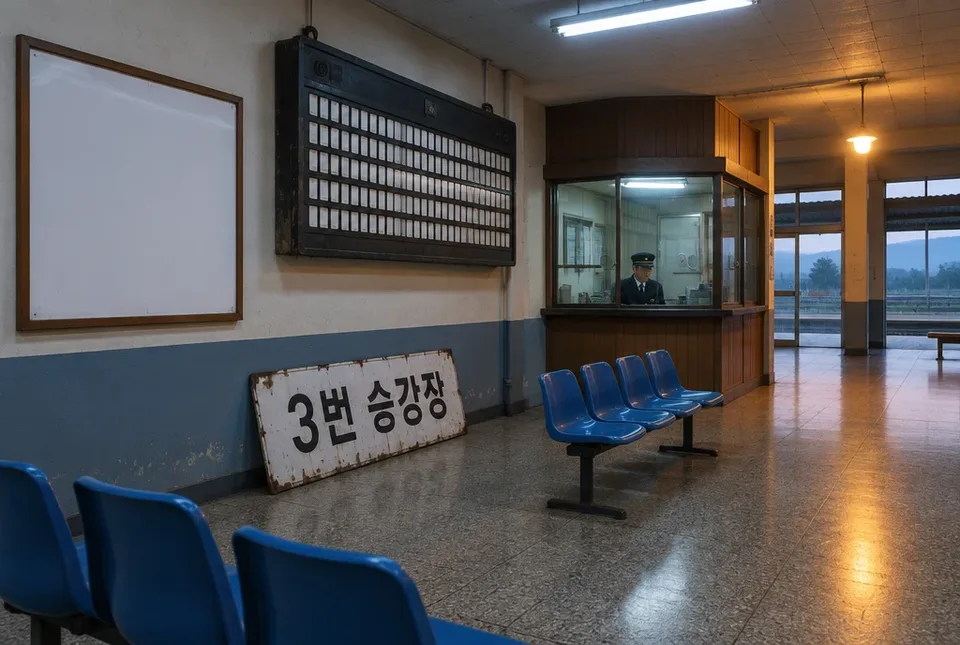
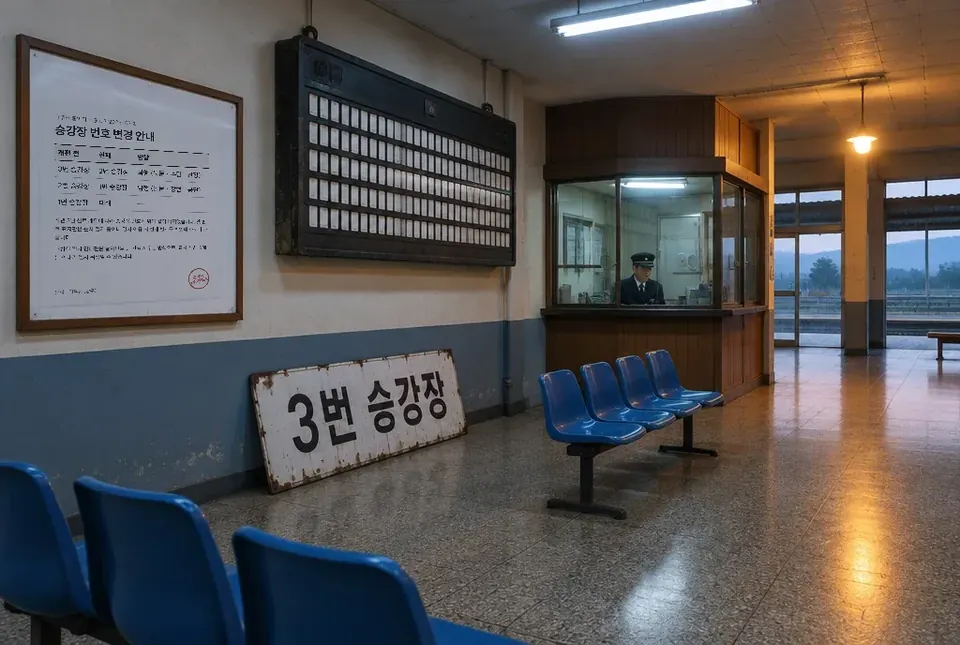
v91: 전체 점검 — 서술문 다듬기, 마지막 편지 손글씨, 안내문 사진 합성, 공고·스티커 소품, 표식 위치
Claude-Session: https://claude.ai/code/session_01EmFjZY1gpVcrfc1exiuVhy

Changed region(s): [[0.0625, 0.186, 0.2188, 0.4031], [0.1875, 0.4031, 0.2188, 0.4651]]

diff --git a/mystery-site/web/v2/episodes/station.js b/mystery-site/web/v2/episodes/station.js
@@ -157,19 +157,18 @@ export default {
   cover: 'assets/v2/station/cover.webp',
   coverAlt: '새벽 대합실 벽에 기대 둔 낡은 3번 승강장 표지',
   music: 'assets/music/station-v33.mp3',
-  tagline: '새벽 1시 14분, 사진 한 장.\n중앙역에 3번 승강장은 없다.',
-  blurb: '회사를 그만두고 방을 뺀 친구가 보낸 마지막 사진은\n지금은 없는 승강장이었습니다. 친구가 남긴 길을 따라가세요.',
+  tagline: '새벽 1시 14분, 사진 한 장.\n중앙역에 3번 승강장은 없다',
+  blurb: '회사를 그만두고 방을 뺀 친구가 보낸 마지막 사진은\n지금은 없는 승강장이었습니다. 친구가 남긴 길을 따라가세요',
   storageKey: 'mihaeje-v2-station',
 
   opening: {
     eyebrow: '새벽 1시 14분',
     paragraphs: [
-      '민서가 사진 한 장을 보냈다.',
-      '낡은 법랑 표지판. 「3번 승강장」. 밑에 매직으로 쓴 한 줄.',
+      '민서가 사진 한 장을 보냈다. 낡은 법랑 표지판에 「3번 승강장」이라고 적혀 있고, 그 밑에 매직으로 쓴 한 줄이 있었다',
       '「여기서 시작. 찾아와」',
-      '전화는 바로 꺼졌다. 다시 걸어도 꺼져 있었다.',
-      '민서는 두 달 전 회사를 그만뒀다. 방을 뺐다는 말은 지난주에 들었다. 어디로 가는지는 묻지 못했다. 묻기 전에 먼저 말해 줄 줄 알았다.',
-      '중앙역에 3번 승강장은 없다. 1번과 2번뿐이다. 나는 아침 첫차를 탔다.',
+      '바로 전화를 걸었지만 꺼져 있었고, 몇 번을 다시 걸어도 마찬가지였다',
+      '민서는 두 달 전에 회사를 그만뒀고 방을 뺐다는 말은 지난주에야 들었다. 어디로 가는지는 묻지 못했는데, 묻기 전에 먼저 말해 줄 거라고 생각했기 때문이다',
+      '중앙역에 3번 승강장은 없다. 1번과 2번뿐이라는 걸 알면서도 나는 아침 첫차를 탔다',
     ],
     cta: '중앙역 대합실로',
   },
@@ -187,10 +186,7 @@ export default {
       id: 'hall',
       name: '중앙역 대합실',
       image: 'assets/v2/station/hall.webp',
-      overlays: [
-        { x: 2.6, y: 8, w: 22.5, h: 38, cls: 'ov-notice', style: 'transform:perspective(900px) rotateY(5deg);transform-origin:left center', html: '<b>승강장 번호 변경 안내</b><table><tr><th>개편 전</th><th>현재</th></tr><tr><td>3번</td><td>2번 (북행)</td></tr><tr><td>2번</td><td>1번 (남행)</td></tr><tr><td>1번</td><td>폐쇄</td></tr></table><small>미루선 중앙역 · 역무관리소</small>' },
-      ],
-      arrive: '여섯 시 반의 대합실. 전광판은 아직 어제 날짜를 넘기지 못한 것처럼 느리게 깜빡인다. 안내판 아래, 벽에 기대 둔 흰 표지판이 보인다. 사진 속 그것이다. 숨이 짧아졌다. 커피를 사려다 말았다.',
+      arrive: '여섯 시 반의 대합실은 전광판이 아직 어제 날짜를 넘기지 못한 것처럼 느리게 깜빡이고 있었다. 안내판 아래 벽에 기대 둔 흰 표지판이 보였고, 그게 사진 속 그것이라는 걸 알아보는 순간 숨이 짧아져서 커피를 사려다 말았다',
       hotspots: [
         { id: 'sign', x: 36, y: 63, label: '벽에 기댄 옛 표지판', kind: 'doc', doc: 'sign' },
         { id: 'clerk', x: 66, y: 40, label: '매표창구의 역무원', kind: 'doc', doc: 'clerk' },
@@ -204,7 +200,7 @@ export default {
       name: '2번 승강장 · 둘째 기둥',
       image: 'assets/v2/station/platform.webp',
       unlockedBy: 'grille',
-      arrive: '안개가 선로 위에 낮게 깔려 있다. 둘째 기둥. 눈높이에 네컷사진 한 장이 테이프로 붙어 있다. 사진 속 두 사람 중 하나는 나다. 이걸 여기 붙이고 간 사람의 마음을 모르겠어서, 조금 무서웠다.',
+      arrive: '안개가 선로 위에 낮게 깔려 있었다. 둘째 기둥 눈높이에 네컷사진 한 장이 테이프로 붙어 있었는데, 사진 속 두 사람 중 하나는 나였다. 이걸 여기 붙이고 간 사람의 마음을 알 수가 없어서 조금 무서웠다',
       hotspots: [
         { id: 'strip', x: 27, y: 34, label: '기둥에 붙은 네컷사진', kind: 'doc', doc: 'strip' },
         { id: 'table', x: 29, y: 57, label: '기둥의 출발 시각표', kind: 'doc', doc: 'timetable' },
@@ -217,10 +213,10 @@ export default {
       name: '수림역 · 보관함',
       image: 'assets/v2/station/surim.webp',
       unlockedBy: 'mirror',
-      arrive: '열차는 북문을 서지 않고 지나쳤다. 수림역은 역무원이 없다. 문 옆에 보관함 열두 칸. 열한 칸은 닫혀 있고, 한 칸에 노란 별 스티커가 붙어 있다. 민서는 뭐든 별 스티커를 붙였다. 노란 별을 보는데 왜 목이 메는지 모르겠다.',
+      arrive: '열차는 북문을 서지 않고 지나쳤고, 수림역에는 역무원이 없었다. 문 옆에 보관함이 열두 칸 있었는데 그중 한 칸에만 노란 별 스티커가 붙어 있었다. 민서는 뭐든 별 스티커를 붙이는 애였고, 그 노란 별을 보는데 왜 목이 메는지 알 수 없었다',
       hotspots: [
         { id: 'postcard', x: 60, y: 30, label: '게시판의 그림엽서', kind: 'doc', doc: 'postcard' },
-        { id: 'lockerrule', x: 12, y: 24, label: '보관함 이용 안내', kind: 'doc', doc: 'lockerrule' },
+        { id: 'lockerrule', x: 41, y: 20, label: '보관함 이용 안내', kind: 'doc', doc: 'lockerrule' },
         { id: 'locker', x: 52, y: 47, label: '별 스티커가 붙은 보관함', kind: 'device', device: 'locker' },
       ],
     },
@@ -229,7 +225,7 @@ export default {
       name: '수림 마을길',
       image: 'assets/v2/station/village.webp',
       unlockedBy: 'locker',
-      arrive: '보관함 안에는 파란 리본을 맨 열쇠, 접은 종이, 편지, 쪽지 세 장. 그리고 민서의 휴대폰. 꺼져 있다. 그래서 안 받은 거였다. 화가 나야 하는데 나지 않았다. 역 밖은 매미 소리로 꽉 차 있다. 길은 왼쪽과 오른쪽으로 갈라진다.',
+      arrive: '보관함 안에는 파란 리본을 맨 열쇠와 접은 종이, 편지, 쪽지 세 장, 그리고 꺼진 채 들어 있는 민서의 휴대폰이 있었다. 그래서 안 받은 거였다. 화가 나야 하는데 나지 않았다. 역 밖은 매미 소리로 꽉 차 있었고 길은 왼쪽과 오른쪽으로 갈라져 있었다',
       hotspots: [
         { id: 'letter', x: 24, y: 70, label: '민서의 편지', kind: 'doc', doc: 'letter' },
         { id: 'handmap', x: 46, y: 74, label: '접힌 손지도', kind: 'doc', doc: 'handmap' },
@@ -243,32 +239,32 @@ export default {
     message: {
       title: '민서의 마지막 메시지',
       kind: '휴대폰 · 01:14',
-      html: `<div class="phone-msg"><div class="bubble photo"><img class="msg-photo" src="assets/v2/station/cover-960.webp" alt="낡은 3번 승강장 표지판 사진" decoding="async"><p class="scrawl">여기서 시작. 찾아와.</p></div><div class="bubble-time">오전 1:14</div><div class="bubble mine">민서야 어디야</div><div class="bubble mine">전화 좀 받아</div><p class="sys">상대방이 전화를 받을 수 없습니다 · 전원이 꺼져 있음</p></div>`,
+      html: `<div class="phone-msg"><div class="bubble photo"><img class="msg-photo" src="assets/v2/station/cover-960.webp" alt="낡은 3번 승강장 표지판 사진" decoding="async"><p class="scrawl">여기서 시작. 찾아와</p></div><div class="bubble-time">오전 1:14</div><div class="bubble mine">민서야 어디야</div><div class="bubble mine">전화 좀 받아</div><p class="sys">상대방이 전화를 받을 수 없습니다 · 전원이 꺼져 있음</p></div>`,
     },
     sign: {
       title: '벽에 기댄 옛 표지판',
       kind: '법랑 · 모서리가 깨짐',
-      html: `<p>흰 바탕에 검은 글씨. <b>3번 승강장</b>. 개편 전에 떼어 낸 것을 역무원이 버리지 못하고 벽에 세워 두었다고 한다.</p><p>뒷면 아래쪽에 투명 테이프로 종이 한 장이 붙어 있다. 구간권이다. 네모난 구멍이 여섯 개 뚫려 있고, 위쪽 여백에 민서 글씨.</p><figure class="prop ticket"><img src="assets/v2/station/props/ticket.webp" alt="구멍 뚫린 구간권" decoding="async"><div class="ticket-holes"><i style="--r:0;--c:0"></i><i style="--r:0;--c:3"></i><i style="--r:1;--c:1"></i><i style="--r:1;--c:3"></i><i style="--r:2;--c:2"></i><i style="--r:3;--c:1"></i></div><span class="ticket-arrow">▲</span><span class="ticket-print">미루선 구간권<br>800원</span><span class="ticket-hand">시간표에 대 봐</span></figure><p class="aside">구간권은 열차 안내판(대합실 위쪽)의 글자판과 같은 크기의 칸으로 나뉘어 있다.</p>`,
+      html: `<p>흰 바탕에 검은 글씨로 <b>3번 승강장</b>이라고 적혀 있다. 개편 때 떼어 낸 것을 역무원이 버리지 못하고 벽에 세워 두었다고 한다</p><p>뒷면 아래쪽에는 투명 테이프로 구간권 한 장이 붙어 있는데, 네모난 구멍이 여섯 개 뚫려 있고 위쪽 여백에 민서 글씨가 있다</p><figure class="prop ticket"><img src="assets/v2/station/props/ticket.webp" alt="구멍 뚫린 구간권" decoding="async"><div class="ticket-holes"><i style="--r:0;--c:0"></i><i style="--r:0;--c:3"></i><i style="--r:1;--c:1"></i><i style="--r:1;--c:3"></i><i style="--r:2;--c:2"></i><i style="--r:3;--c:1"></i></div><span class="ticket-arrow">▲</span><span class="ticket-print">미루선 구간권<br>800원</span><span class="ticket-hand">시간표에 대 봐</span></figure><p class="aside">구간권의 칸은 대합실 위쪽 열차 안내판의 글자판과 크기가 같다</p>`,
     },
     clerk: {
       title: '매표창구의 역무원',
       kind: '박종길 · 야간 근무',
-      html: `<p>창구 안의 남자는 커피를 반쯤 남긴 채 신문을 접었다.</p><blockquote>“새벽에 여자분 하나가 저 표지판 앞에 한참 서 있다가, 뭘 붙이고 갔어요. 떼려다 뒀습니다. ‘사람이 올 거예요’ 하길래”</blockquote><blockquote>“3번? 지금은 없어요. 작년에 개편하면서 번호를 바꿨어요. 저 표지판이 서 있던 자리는 지금 2번이에요. 북쪽 가는 쪽”</blockquote><blockquote>“그 여자분, 첫차 타고 올라갔어요. 어느 열차였는지는… 승강장 가서 물어보시든가. 기둥에도 뭘 붙였을걸요. 테이프 소리가 들렸으니까”</blockquote>`,
+      html: `<p>창구 안의 남자는 커피를 반쯤 남긴 채 신문을 접었다</p><blockquote>“새벽에 여자분 하나가 저 표지판 앞에 한참 서 있다가, 뭘 붙이고 갔어요. 떼려다 뒀습니다. ‘사람이 올 거예요’ 하길래”</blockquote><blockquote>“3번? 지금은 없어요. 작년에 개편하면서 번호를 바꿨어요. 저 표지판이 서 있던 자리는 지금 2번이에요. 북쪽 가는 쪽”</blockquote><blockquote>“그 여자분, 첫차 타고 올라갔어요. 어느 열차였는지는… 승강장 가서 물어보시든가. 기둥에도 뭘 붙였을걸요. 테이프 소리가 들렸으니까”</blockquote>`,
     },
     notice: {
       title: '승강장 개편 안내',
       kind: '게시물 · 작년 3월',
-      html: `<p class="eyebrow">미루선 중앙역 승강장 번호 변경</p><table><thead><tr><th>개편 전</th><th>현재</th><th>방향</th></tr></thead><tbody><tr><td>3번</td><td>2번</td><td>북행 (북문 · 수림 · 산장)</td></tr><tr><td>2번</td><td>1번</td><td>남행 (남문 · 강변 · 공단)</td></tr><tr><td>1번</td><td>폐쇄</td><td>—</td></tr></tbody></table><p>대합실 위쪽 열차 안내판은 글자판을 한 칸씩 끼우는 옛날식입니다. 글자판 교체 중에는 안내가 뒤섞일 수 있습니다.</p>`,
+      html: `<figure class="prop noticephoto"><img src="assets/v2/station/props/notice.webp" alt="승강장 번호 변경 안내: 옛 3번은 현재 2번(북행), 옛 2번은 현재 1번(남행), 옛 1번은 폐쇄" decoding="async"></figure><p class="aside">옛 3번은 지금 2번(북행), 옛 2번은 지금 1번(남행), 옛 1번은 폐쇄. 대합실 안내판은 글자판을 한 칸씩 끼우는 옛날식이라 교체 중에는 안내가 뒤섞일 수 있다고 적혀 있다</p>`,
     },
     brief: {
       title: '민서와 나',
       kind: '내 기억',
-      html: `<p>스무 살. 매일 아침 09:40 통학열차, 둘째 칸. 어느 날 내 자리에 모르는 애가 앉아 있었다. 비켜 달라고 했더니 “자리 이름 적혀 있어?” 했다. 그게 민서였다.</p><p>민서는 뭐든 별 스티커를 붙였다. 노트, 휴대폰, 내 가방에도. 중학교 때부터 쪽지를 거울 글씨로 쓰는 버릇이 있었다. 선생님이 못 읽게 하려고 시작한 거라고 했다.</p><p>외할머니 얘기를 자주 했다. 수림 어디 산골에 혼자 사신다고. 여름마다 갔는데 작년부터는 못 갔다고.</p><p>회사를 그만둔 뒤로 연락이 뜸해졌다. 괜찮냐고 묻지 않았다. 묻지 않는 게 배려라고 생각했다.</p>`,
+      html: `<p>스무 살 때 매일 아침 09:40 통학열차 둘째 칸을 탔는데, 어느 날 내 자리에 모르는 애가 앉아 있었다. 비켜 달라고 했더니 “자리에 이름 적혀 있어?” 하고 되물었고, 그게 민서였다</p><p>민서는 노트든 휴대폰이든 내 가방이든 뭐든 별 스티커를 붙였고, 중학교 때부터 쪽지를 거울 글씨로 쓰는 버릇이 있었다. 선생님이 못 읽게 하려고 시작한 거라고 했다</p><p>수림 어디 산골에 혼자 사신다는 외할머니 얘기를 자주 했다. 여름마다 갔는데 작년부터는 못 갔다고 했다</p><p>회사를 그만둔 뒤로 연락이 뜸해졌지만 괜찮냐고 묻지 않았다. 묻지 않는 게 배려라고 생각했다</p>`,
     },
     strip: {
       title: '기둥에 붙은 네컷사진',
       kind: '앞면 · 뒷면',
-      html: `<figure class="prop stripphoto"><img src="assets/v2/station/props/strip.webp" alt="기둥에 붙은 네컷사진" decoding="async"></figure><p class="aside">4년 전 역 앞 사진 부스. 둘 다 눈을 감은 컷이 하나 있다.</p><p>뒷면에 민서 글씨가 있다. 그런데 글자가 전부 뒤집혀 있다. 왼손으로 쓴 것처럼 삐뚤고, 자음이 거꾸로다.</p><figure class="prop stripback"><p class="mirror-text">우리가 처음 만난 그 시간 열차. 종점까지 와.</p></figure><p class="aside">승강장 끝에 볼록거울이 있다.</p>`,
+      html: `<figure class="prop stripphoto"><img src="assets/v2/station/props/strip.webp" alt="기둥에 붙은 네컷사진" decoding="async"></figure><p class="aside">4년 전 역 앞 사진 부스에서 찍은 것으로, 둘 다 눈을 감은 컷이 하나 있다</p><p>뒷면에 민서 글씨가 있는데 글자가 전부 뒤집혀 있다. 왼손으로 쓴 것처럼 삐뚤고 자음이 거꾸로다</p><figure class="prop stripback"><p class="mirror-text">우리가 처음 만난 그 시간 열차. 종점까지 와.</p></figure><p class="aside">승강장 끝에 볼록거울이 있다</p>`,
     },
     timetable: {
       title: '기둥의 출발 시각표',
@@ -278,28 +274,28 @@ export default {
     postcard: {
       title: '게시판의 그림엽서',
       kind: '민서가 찍은 사진 엽서',
-      html: `${postcardImg}<p>뒷면.</p><blockquote class="hand">보관함 번호는 그림 안에 있어.<br>새, 창, 등, 의자 순서로.<br>벤치에서 조는 사람은 세지 마. 그거 너야.</blockquote>`,
+      html: `${postcardImg}<p class="aside">뒷면에 적힌 글</p><blockquote class="hand">보관함 번호는 그림 안에 있어<br>새, 창, 등, 의자 순서로<br>벤치에서 조는 사람은 세지 마. 그거 너야</blockquote>`,
     },
     lockerrule: {
       title: '보관함 이용 안내',
       kind: '수림역 · 무인',
-      html: `<p>숫자 네 자리를 맞추고 손잡이를 당기세요. 세 번 틀리면 30초 동안 잠깁니다. 물건은 7일까지 보관됩니다.</p><p class="aside">별 스티커가 붙은 칸은 7번. 다이얼이 전부 0에 맞춰져 있다.</p>`,
+      html: `<div class="sticker"><b>보관함 이용 안내</b><ol><li>숫자 네 자리를 맞추고 손잡이를 당기세요</li><li>세 번 틀리면 30초 동안 잠깁니다</li><li>물건은 7일까지 보관됩니다</li></ol><small>수림역 · 무인역 관리 041-000-0000</small></div><p class="aside">보관함 옆면에 붙은 스티커. 별 스티커가 붙은 칸은 7번이고 다이얼은 전부 0에 맞춰져 있다</p>`,
     },
     letter: {
       title: '민서의 편지',
       kind: '보관함 안 · 봉투 없이',
-      html: `<figure class="prop letterphoto"><img src="assets/v2/station/props/letter.webp" alt="보관함에서 나온 편지" decoding="async"><div class="letter-hand"><p>왔네.</p><p>여기까지 왔으면 반은 온 거야. 열쇠는 우리 집 대문 열쇠. 지도는 내가 그렸는데 좀 못 그렸어.</p><p>역을 등지고 서. 그 상태에서 <b>왼쪽</b>으로 가.<br><b>두 번째 골목</b>에서 <b>오른쪽</b>으로 꺾어.<br>다리를 건너. 건너자마자 <b>왼쪽</b>.<br>그 길에 집이 <b>네 채</b>. 몇 번째인지는 안 적을래. 쪽지 세 장 중 <b>하나만 거짓말</b>이야. 우리 중학교 때 하던 거.</p><p>대문 색은 지도에 안 그렸어. 그려 놓으면 네가 지도만 보고 올 거잖아.</p><p class="sign">— 민서</p></div></figure>`,
+      html: `<figure class="prop letterphoto"><img src="assets/v2/station/props/letter.webp" alt="보관함에서 나온 편지" decoding="async"><div class="letter-hand"><p>왔네</p><p>여기까지 왔으면 반은 온 거야. 열쇠는 우리 집 대문 열쇠고, 지도는 내가 그렸는데 좀 못 그렸어</p><p>역을 등지고 서. 그 상태에서 <b>왼쪽</b>으로 가.<br><b>두 번째 골목</b>에서 <b>오른쪽</b>으로 꺾어.<br>다리를 건너. 건너자마자 <b>왼쪽</b>.<br>그 길에 집이 <b>네 채</b>. 몇 번째인지는 안 적을래. 쪽지 세 장 중 <b>하나만 거짓말</b>이야. 우리 중학교 때 하던 거</p><p>대문 색은 지도에 안 그렸어. 그려 놓으면 네가 지도만 보고 올 거잖아</p><p class="sign">— 민서</p></div></figure>`,
     },
     handmap: {
       title: '접힌 손지도',
       kind: '종이봉투 조각에 볼펜',
-      html: `<figure class="prop kraft"><img src="assets/v2/station/props/kraft.webp" alt="종이봉투를 찢어 그린 손지도" decoding="async"><div class="kraft-map">${svgMap()}</div></figure><p class="aside">위가 북쪽. 역은 지도 아래쪽에 있다. 집은 전부 비슷하게 그려져 있고 대문 색은 없다.</p>`,
+      html: `<figure class="prop kraft"><img src="assets/v2/station/props/kraft.webp" alt="종이봉투를 찢어 그린 손지도" decoding="async"><div class="kraft-map">${svgMap()}</div></figure><p class="aside">위가 북쪽이고 역은 지도 아래쪽에 있다. 집은 전부 비슷하게 그려져 있고 대문 색은 없다</p>`,
     },
     final: {
       title: '민서의 편지 · 마지막 장',
       kind: '편지의 접힌 뒷장 · 마당에서 읽음',
       locked: true,
-      html: `<div class="letter-paper"><p>할머니가 겨울에 넘어지셨어. 아무한테도 말 안 하고 혼자 석 달을 누워 계셨대. 그 얘기를 듣고 그날 사표 냈어.</p><p>너한테는 말을 못 했어. 말하면 네가 말릴 것 같았고, 안 말리면 그게 더 서운할 것 같았어. 그래서 네가 직접 오게 만들었어. 넌 길 찾는 거 잘하잖아. 그리고 여기까지 온 사람은 그냥 못 돌아가.</p><p>휴대폰은 보관함에 넣어 뒀어. 들고 있으면 네가 걸 때마다 받을 것 같아서. 받으면 말할 것 같고, 말하면 넌 안 올 것 같아서.</p><p>수박 잘라 놨어.</p></div>`,
+      html: `<figure class="prop letterphoto back"><img src="assets/v2/station/props/letter.webp" alt="편지의 접힌 뒷장" decoding="async"><div class="letter-hand"><p>할머니가 겨울에 넘어지셨어. 아무한테도 말 안 하고 혼자 석 달을 누워 계셨대. 그 얘기를 듣고 그날 사표 냈어</p><p>너한테는 말을 못 했어. 말하면 네가 말릴 것 같았고, 안 말리면 그게 더 서운할 것 같았어. 그래서 네가 직접 오게 만들었어. 넌 길 찾는 거 잘하잖아. 그리고 여기까지 온 사람은 그냥 못 돌아가</p><p>휴대폰은 보관함에 넣어 뒀어. 들고 있으면 네가 걸 때마다 받을 것 같아서. 받으면 말할 것 같고, 말하면 넌 안 올 것 같아서</p><p>수박 잘라 놨어</p></div></figure>`,
     },
   },
 
@@ -307,13 +303,13 @@ export default {
     grille: {
       title: '열차 안내판',
       scene: 'hall',
-      intro: '글자판이 7×7로 끼워져 있다. 구간권을 겹쳐 올릴 수 있다. 구멍으로 보이는 글자가 민서가 남긴 말이다.',
+      intro: '글자판이 7×7로 끼워져 있다. 구간권을 겹쳐 올릴 수 있다. 구멍으로 보이는 글자가 민서가 남긴 말이다',
       docs: ['sign', 'notice'],
       hintCode: 'T-S01',
       hints: [
-        '구간권을 안내판 위에서 움직이고, 돌려도 보세요. 구멍으로 읽히는 글자가 말이 되는 자리는 서른여섯 가지 중 하나뿐입니다.',
-        '화살표가 위를 보는 상태로, 오른쪽 두 칸, 아래 한 칸. 숫자 하나와 글자 다섯이 읽힙니다.',
-        '읽히는 글자는 「2번 둘째 기둥」입니다. 2번 승강장의 둘째 기둥을 고르세요.',
+        '구간권을 안내판 위에서 움직이고, 돌려도 보세요. 구멍으로 읽히는 글자가 말이 되는 자리는 서른여섯 가지 중 하나뿐입니다',
+        '화살표가 위를 보는 상태로, 오른쪽 두 칸, 아래 한 칸. 숫자 하나와 글자 다섯이 읽힙니다',
+        '읽히는 글자는 「2번 둘째 기둥」입니다. 2번 승강장의 둘째 기둥을 고르세요',
       ],
       initial: () => ({ dx: 0, dy: 0, turn: 0, platform: null, pillar: null }),
       render(ctx) {
@@ -374,10 +370,10 @@ export default {
       },
       reveal: {
         title: '2번 승강장, 둘째 기둥',
-        text: '역무원이 개찰구를 열어 준다. “북쪽 가는 쪽이요. 기둥은 선로 쪽에서 세요”',
+        text: '역무원이 개찰구를 열어 주며 말했다. “북쪽 가는 쪽이요. 기둥은 선로 쪽에서 세요”',
         scene: [
-          '구간권을 주머니에 넣었다. 구멍 여섯 개. 민서가 이걸 칼로 하나씩 뚫고 있었을 생각을 하니 조금 화가 났다. 조금.',
-          '개찰구를 지나며 역무원이 덧붙였다. “그 여자분, 가방이 컸어요. 멀리 가는 사람 가방.” 나는 못 들은 척했다.',
+          '구간권을 주머니에 넣으면서, 민서가 이 구멍 여섯 개를 칼로 하나씩 뚫고 있었을 걸 생각하니 조금 화가 났다. 아주 조금',
+          '개찰구를 지나는데 역무원이 덧붙였다. “그 여자분, 가방이 컸어요. 멀리 가는 사람 가방” 나는 못 들은 척했다',
         ],
         unlock: 'platform',
       },
@@ -386,13 +382,13 @@ export default {
     mirror: {
       title: '승강장 끝의 볼록거울',
       scene: 'platform',
-      intro: '열차 기관사가 승강장 전체를 보라고 달아 둔 거울이다. 네컷사진을 거울 앞에 들면 뒷면 글씨가 바로 보인다.',
+      intro: '열차 기관사가 승강장 전체를 보라고 달아 둔 거울이다. 네컷사진을 거울 앞에 들면 뒷면 글씨가 바로 보인다',
       docs: ['strip', 'timetable', 'brief'],
       hintCode: 'T-S02',
       hints: [
-        '민서의 쪽지는 거울 글씨입니다. 사진을 거울 앞에 들고 나란히 맞추면 읽힙니다. 읽은 문장 안에 “시간”과 “종점”이 있습니다.',
-        '민서와 처음 만난 시간은 「민서와 나」에 적혀 있습니다. 같은 시간 열차가 두 승강장에 하나씩 있는데, 지금 서 있는 곳은 2번 승강장입니다.',
-        '09:40 수림행 급행입니다. 종점은 수림.',
+        '민서의 쪽지는 거울 글씨입니다. 사진을 거울 앞에 들고 나란히 맞추면 읽힙니다. 읽은 문장 안에 “시간”과 “종점”이 있습니다',
+        '민서와 처음 만난 시간은 「민서와 나」에 적혀 있습니다. 같은 시간 열차가 두 승강장에 하나씩 있는데, 지금 서 있는 곳은 2번 승강장입니다',
+        '09:40 수림행 급행입니다. 종점은 수림',
       ],
       initial: () => ({ held: false, tilt: 0, train: null }),
       render(ctx) {
@@ -432,10 +428,10 @@ export default {
       },
       reveal: {
         title: '09:40 수림행 급행',
-        text: '둘째 칸에 탔다. 자리에 이름은 적혀 있지 않았다.',
+        text: '둘째 칸에 탔다. 자리에 이름은 적혀 있지 않았다',
         scene: [
-          '네컷사진을 창틀에 세워 뒀다. 눈 감은 컷에서 민서는 웃고 있다. 나는 그 컷을 제일 싫어했고, 민서는 제일 좋아했다.',
-          '열차는 북문을 서지 않고 지나쳤다. 창밖이 산으로 바뀌는 동안 휴대폰을 세 번 봤다. 여전히 꺼져 있었다.',
+          '네컷사진을 창틀에 세워 뒀다. 눈 감은 컷에서 민서는 웃고 있었는데, 나는 그 컷을 제일 싫어했고 민서는 제일 좋아했다',
+          '열차는 북문을 서지 않고 지나쳤다. 창밖이 산으로 바뀌는 동안 휴대폰을 세 번 봤지만 여전히 꺼져 있었다',
         ],
         unlock: 'surim',
       },
@@ -444,13 +440,13 @@ export default {
     locker: {
       title: '별 스티커가 붙은 보관함',
       scene: 'surim',
-      intro: '7번 칸. 다이얼 네 개가 전부 0에 맞춰져 있다. 세 번 틀리면 30초 동안 잠긴다.',
+      intro: '7번 칸. 다이얼 네 개가 전부 0에 맞춰져 있다. 세 번 틀리면 30초 동안 잠긴다',
       docs: ['postcard', 'lockerrule'],
       hintCode: 'T-S03',
       hints: [
-        '엽서 그림 안의 물건을 셉니다. 순서는 엽서 뒷면에 적힌 대로: 새, 창, 등, 의자.',
-        '새는 하늘에 있고, 창은 역사 벽에, 등은 가로등, 의자는 벤치입니다. 조는 사람은 세지 않습니다.',
-        '새 3 · 창 4 · 등 2 · 의자 1 → 3421.',
+        '엽서 그림 안의 물건을 셉니다. 순서는 엽서 뒷면에 적힌 대로: 새, 창, 등, 의자',
+        '새는 하늘에 있고, 창은 역사 벽에, 등은 가로등, 의자는 벤치입니다. 조는 사람은 세지 않습니다',
+        '새 3 · 창 4 · 등 2 · 의자 1 → 3421',
       ],
       initial: () => ({ dial: [0, 0, 0, 0], fails: 0, lockedUntil: 0 }),
       render(ctx) {
@@ -484,10 +480,10 @@ export default {
       },
       reveal: {
         title: '3 · 4 · 2 · 1',
-        text: '문이 열린다. 파란 리본을 맨 열쇠, 접은 종이, 편지, 쪽지 세 장. 그리고 휴대폰. 민서 것이다. 전원이 꺼져 있다.',
+        text: '문이 열렸다. 파란 리본을 맨 열쇠와 접은 종이, 편지, 쪽지 세 장, 그리고 전원이 꺼진 민서의 휴대폰이 들어 있었다',
         scene: [
-          '휴대폰을 켜 볼까 하다 말았다. 켜면 내가 건 전화 열한 통이 뜰 것이다. 그걸 민서가 보게 하고 싶지 않았다.',
-          '엽서 뒷면에 연필로 쓴 글씨가 한 줄 더 있었다. “세는 동안 네 얼굴 상상했어. 또 입 삐죽했지” 입을 삐죽했다.',
+          '휴대폰을 켜 볼까 하다 말았다. 켜면 내가 건 전화 열한 통이 뜰 테고, 그걸 민서가 보게 하고 싶지는 않았다',
+          '엽서 뒷면에는 연필로 쓴 글씨가 한 줄 더 있었다. “세는 동안 네 얼굴 상상했어. 또 입 삐죽했지” 입을 삐죽했다',
         ],
         unlock: 'village',
       },
@@ -497,13 +493,13 @@ export default {
     notes: {
       title: '쪽지 세 장',
       scene: 'village',
-      intro: '보관함에서 나온 쪽지 세 장. 편지는 “셋 중 하나만 거짓말”이라고 했다. 거짓말인 쪽지를 고르고, 그러면 몇 번째 집인지 정한다.',
+      intro: '보관함에서 나온 쪽지 세 장. 편지는 “셋 중 하나만 거짓말”이라고 했다. 거짓말인 쪽지를 고르고, 그러면 몇 번째 집인지 정한다',
       docs: ['letter'],
       hintCode: 'T-S04',
       hints: [
-        '쪽지 하나를 거짓이라고 가정하고, 나머지 둘이 전부 참이 되는지 봅니다. 거짓이 둘이 되면 그 가정은 틀린 겁니다.',
-        '나 쪽지가 거짓이면 가 쪽지는 참(둘째 집이 아님)이고 다 쪽지도 참(셋째 집). 거짓이 하나뿐입니다.',
-        '거짓말은 나. 집은 셋째.',
+        '쪽지 하나를 거짓이라고 가정하고, 나머지 둘이 전부 참이 되는지 봅니다. 거짓이 둘이 되면 그 가정은 틀린 겁니다',
+        '나 쪽지가 거짓이면 가 쪽지는 참(둘째 집이 아님)이고 다 쪽지도 참(셋째 집). 거짓이 하나뿐입니다',
+        '거짓말은 나. 집은 셋째',
       ],
       initial: () => ({ lie: null, house: null }),
       render(ctx) {
@@ -533,10 +529,9 @@ export default {
       },
       reveal: {
         title: '거짓말은 나, 집은 셋째',
-        text: '“가는 거짓말이야”가 거짓이다. 그러면 가는 참, 둘째 집이 아니다. 다도 참, 셋째 집이다.',
+        text: '“가는 거짓말이야”가 거짓이니 가는 참이고 둘째 집이 아니다. 다도 참이니 셋째 집이다',
         scene: [
-          '민서는 이런 걸 좋아했다. 셋 중 하나가 거짓이라는 놀이. 중학교 때 쪽지로 시작했고, 한 번도 내가 못 푼 적이 없었다.',
-          '이번에도 풀렸다. 그게 조금 분했다.',
+          '민서는 셋 중 하나가 거짓이라는 이 놀이를 좋아했다. 중학교 때 쪽지로 시작했고 한 번도 내가 못 푼 적이 없었는데, 이번에도 풀렸다는 게 조금 분했다',
         ],
         unlock: null,
       },
@@ -545,13 +540,13 @@ export default {
     walk: {
       title: '마을로 걸어가기',
       scene: 'village',
-      intro: '갈림길마다 고른다. 편지는 “역을 등지고”에서 시작한다. 몇 번째 집인지는 쪽지에서 나왔다.',
+      intro: '갈림길마다 고른다. 편지는 “역을 등지고”에서 시작한다. 몇 번째 집인지는 쪽지에서 나왔다',
       docs: ['letter', 'handmap'],
       hintCode: 'T-S05',
       hints: [
-        '“역을 등지고”는 역을 뒤에 두고 선다는 뜻입니다. 지도는 위가 북쪽이고 역은 아래에 있으니, 그렇게 서면 왼쪽이 서쪽입니다.',
-        '왼쪽(서쪽)으로 가다 두 번째 골목에서 오른쪽(북쪽). 다리를 건너자마자 왼쪽. 몇 번째 집인지는 쪽지 세 장에서 나온 답입니다.',
-        '왼쪽 → 직진 → 오른쪽 → 직진(다리) → 왼쪽 → 쪽지에서 나온 번째 집(셋째).',
+        '“역을 등지고”는 역을 뒤에 두고 선다는 뜻입니다. 지도는 위가 북쪽이고 역은 아래에 있으니, 그렇게 서면 왼쪽이 서쪽입니다',
+        '왼쪽(서쪽)으로 가다 두 번째 골목에서 오른쪽(북쪽). 다리를 건너자마자 왼쪽. 몇 번째 집인지는 쪽지 세 장에서 나온 답입니다',
+        '왼쪽 → 직진 → 오른쪽 → 직진(다리) → 왼쪽 → 쪽지에서 나온 번째 집(셋째)',
       ],
       initial: () => ({ at: 'S', heading: 'N', path: [], lane: null, house: null }),
       render(ctx) {
@@ -599,8 +594,8 @@ export default {
       },
       reveal: {
         title: '파란 대문',
-        text: '열쇠가 돌아간다.',
-        scene: ['마당 안쪽에서 매미 소리보다 큰 웃음소리가 난다. 두 사람 몫이다.'],
+        text: '열쇠가 돌아갔다',
+        scene: ['마당 안쪽에서 매미 소리보다 큰 웃음소리가 났다. 두 사람 몫이었다'],
         unlock: null,
         ending: true,
       },
@@ -613,14 +608,14 @@ export default {
     eyebrow: '수림, 오후 다섯 시',
     title: '없는 승강장에서 온 초대',
     paragraphs: [
-      '평상 위에 수박이 잘려 있었다. 할머니가 먼저 손을 흔들었다. 민서는 일어나지 않았다. 일어나면 울 것 같은 얼굴이었다.',
+      '평상 위에 수박이 잘려 있었고 할머니가 먼저 손을 흔들었다. 민서는 일어나지 않았는데, 일어나면 울 것 같은 얼굴이었다',
       '“왔네” “왔지”',
       '“무서웠어” “알아” “진짜로 무서웠다고. 네가 어디 가서 안 돌아오는 줄 알았어” 민서가 수박을 내려놓았다. “미안. 그건 미안해. 그래도 왔잖아” “그래서 더 화나”',
       '“전화는 왜 보관함에 넣어” “들고 있으면 받을 것 같아서” “받지” “받으면 네가 안 오잖아”',
-      '할머니가 수박을 하나 더 잘랐다. “얘가 겨울 내내 그 얘기만 했어. 걔는 길 잘 찾아, 걔는 길 잘 찾아”',
-      '나는 열쇠를 돌려주려다 말았다. 민서가 “그건 네 거야” 했다. “다음엔 그냥 말로 해” “그럼 재미없잖아”',
+      '할머니가 수박을 하나 더 자르며 말했다. “얘가 겨울 내내 그 얘기만 했어. 걔는 길 잘 찾아, 걔는 길 잘 찾아”',
+      '열쇠를 돌려주려다 말았다. 민서가 그건 네 거라고 했다. “다음엔 그냥 말로 해” “그럼 재미없잖아”',
     ],
-    afterword: '민서는 수림에 남았다. 나는 토요일마다 09:40 열차를 탄다. 둘째 칸, 자리에 이름은 없다.',
+    afterword: '민서는 수림에 남았고 나는 토요일마다 09:40 열차를 탄다. 둘째 칸이고, 자리에 이름은 없다',
     unlockDoc: 'final',
     next: { href: 'episode.html?case=letter', title: '반송된 편지', line: '같은 역을 지나는 네 통의 편지가 돌아왔습니다.' },
   },

diff --git a/mystery-site/web/v2/engine.css b/mystery-site/web/v2/engine.css
@@ -102,7 +102,7 @@ a{color:inherit}
 .v2-doc-body{font-size:16px;line-height:1.8}
 .v2-doc-body p{margin:0 0 .9em}
 .v2-doc-body blockquote{margin:12px 0;padding:10px 16px;border-left:3px solid var(--lamp);background:rgba(227,166,74,.08);font-family:var(--serif)}
-.v2-doc-body blockquote.hand{font-family:var(--serif);font-size:18px;border-left-color:#5c4b32;background:transparent;padding-left:12px}
+.v2-doc-body blockquote.hand{font-family:var(--hand);font-size:23px;line-height:1.4;color:#2f3a7a;border-left-color:#5c4b32;background:#fbf6e7;padding:10px 14px}
 .v2-doc-body table{width:100%;border-collapse:collapse;margin:8px 0 14px;font-size:15px}
 .v2-doc-body th,.v2-doc-body td{text-align:left;padding:7px 8px;border-bottom:1px solid var(--paper-line)}
 .v2-doc-body th{font-weight:700;color:#5a5446}
@@ -360,3 +360,11 @@ a{color:inherit}
 .ov-notice th,.ov-notice td{border-bottom:1px solid #c9c3b4;padding:.25em .3em;text-align:left;font-weight:500}
 .ov-notice th{font-weight:700;border-bottom:2px solid #333}
 .ov-notice small{display:block;font-size:1cqw;color:#666}
+.letterphoto.back>img{transform:scaleX(-1)}
+.letterphoto.back .letter-hand{left:28%;width:62%}
+.noticephoto{max-width:520px}
+.postcard-photo figcaption{font-family:var(--hand);font-size:20px;color:#2f3a7a}
+.sticker{background:#fff;border:2px solid #c23a2b;border-radius:6px;padding:14px 16px;max-width:360px;font-family:var(--sans);color:#222;box-shadow:0 3px 10px rgba(0,0,0,.2);transform:rotate(-1deg);margin:0 0 14px}
+.sticker b{display:block;color:#c23a2b;font-size:17px;margin:0 0 6px}
+.sticker ol{margin:0 0 8px;padding-left:20px;font-size:15px;line-height:1.5}
+.sticker small{font-size:12px;color:#777}

diff --git a/mystery-site/web/play.html b/mystery-site/web/play.html
@@ -1,6 +1,6 @@
-<!doctype html><html lang="ko"><head><meta charset="utf-8"><meta name="viewport" content="width=device-width,initial-scale=1,viewport-fit=cover"><title>미해제</title><meta name="description" content="미해제 — 이야기를 따라가는 웹 방탈출"><meta name="theme-color" content="#141a22"><link rel="icon" href="favicon.svg" type="image/svg+xml"><link rel="stylesheet" href="v2/engine.css?v=90"></head><body>
+<!doctype html><html lang="ko"><head><meta charset="utf-8"><meta name="viewport" content="width=device-width,initial-scale=1,viewport-fit=cover"><title>미해제</title><meta name="description" content="미해제 — 이야기를 따라가는 웹 방탈출"><meta name="theme-color" content="#141a22"><link rel="icon" href="favicon.svg" type="image/svg+xml"><link rel="stylesheet" href="v2/engine.css?v=91"></head><body>
 <a class="skip-link" href="#app" style="position:absolute;left:-9999px">본문으로</a>
 <div id="app"></div>
-<script src="v2/feedback-config.js?v=90"></script>
-<script type="module" src="v2/engine.js?v=90"></script>
+<script src="v2/feedback-config.js?v=91"></script>
+<script type="module" src="v2/engine.js?v=91"></script>
 </body></html>
